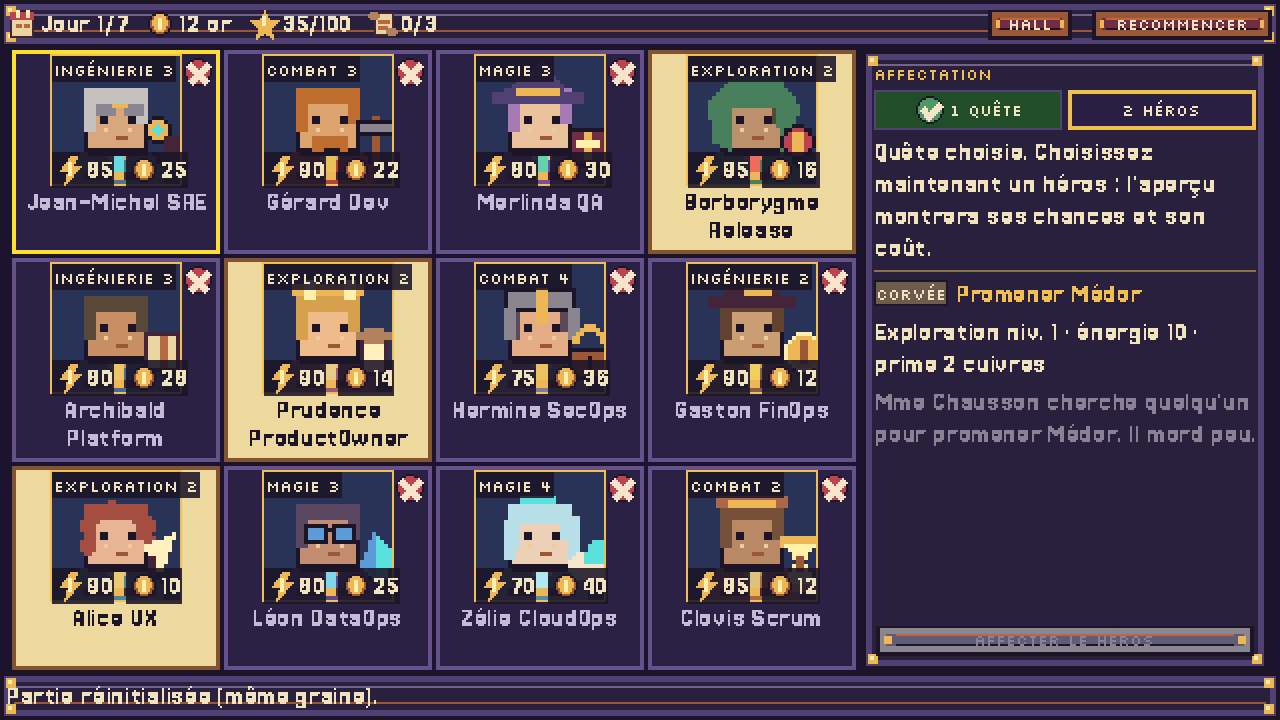
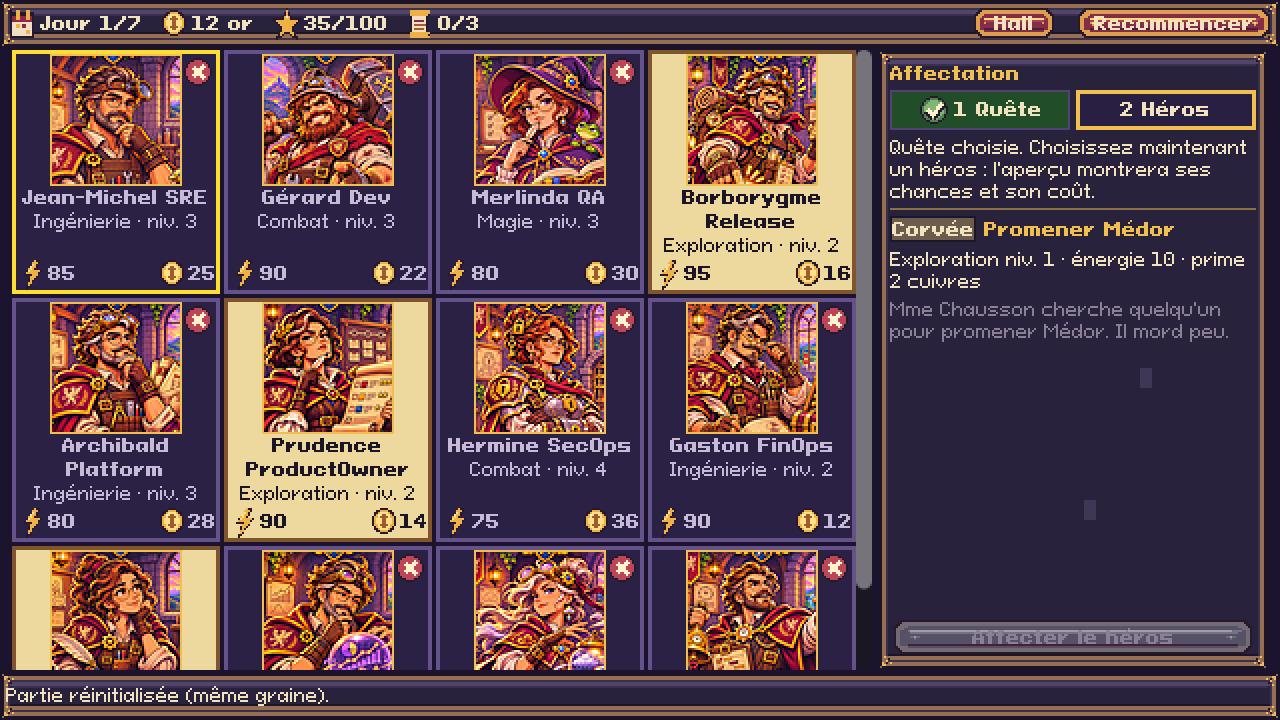
B5.1: recompose les cartes héros (portrait, nom, classe · niveau, énergie/coût)
Portrait dégagé, nom dessous, « Classe · niv. N » puis énergie et coût en bas.
La grille des héros défile verticalement (les 3 rangées dépassent 313 px).
Le contrôle de mise en page tolère le dépassement par le bas en zone défilante.
Nouvelle capture 04c (grille défilée). Aucun changement dans GuildOps.Core.

diff --git a/src/GuildOps.Game/Ui/Cards.cs b/src/GuildOps.Game/Ui/Cards.cs
@@ -34,7 +34,6 @@ public static class Names
 public static class Cards
 {
     public const int HeroCardWidth = 104;
-    public const int HeroCardHeight = 102;
     private const int PortraitBoxSize = 66;
 
     /// <summary>Portrait 64×64 dans son cadre 72×72 (utilisé là où la place le permet : détail de mission).</summary>
@@ -65,15 +64,20 @@ public static class Cards
     }
 
     /// <summary>
-    /// Carte de héros : portrait → nom (2 lignes au besoin, jamais tronqué) → spécialité/niveau ; énergie et coût en pastilles
-    /// sur les angles du portrait (le visage reste dégagé). États : sélectionné ✔, engagé ⚠, incompatible ✖ (icône + grisé).
+    /// Carte de héros : portrait dégagé (aucune pastille dessus) → nom (2 lignes au besoin, jamais tronqué) → « Spécialité · niv. N »
+    /// → énergie à gauche, coût à droite. La grille défile verticalement (3 rangées de cette carte dépassent les 313 px disponibles).
+    /// États : sélectionné ✔, engagé ⚠, incompatible ✖ (icône + grisé).
     /// </summary>
     public static CardButton HeroCard(GameSession session, Hero hero, CardState state, string? reason)
     {
         var d = hero.Definition;
+        const int line = 12, statsH = 16;
+        var innerW = HeroCardWidth - 4;
+        var nameFont = UiKit.Font;
+        var nameLines = nameFont.GetStringSize(d.Name, HorizontalAlignment.Left, -1, UiKit.TextSize).X > innerW ? 2 : 1;
         var card = new CardButton
         {
-            CustomMinimumSize = new Vector2(HeroCardWidth, HeroCardHeight),
+            CustomMinimumSize = new Vector2(HeroCardWidth, 2 + PortraitBoxSize + nameLines * line + line + statsH + 2),
             TooltipText = $"{d.Name} — {d.Role}\n{Names.Skill(d.Skill)} niveau {d.Level}, énergie {hero.Energy}, engagement {session.Money(d.BaseCostCopper)}\nTrait : {d.TraitText}" +
                           (hero.IsFree ? "" : "\nEn mission.") + (reason is null ? "" : $"\n{reason}"),
         };
@@ -89,23 +93,30 @@ public static class Cards
         center.AddChild(portrait);
         box.AddChild(center);
 
-        // Spécialité + niveau (haut-gauche, style titre) ; énergie et coût (bas) : pastilles à icône, hors du visage.
-        // « Ingénierie 3 » dépasserait du portrait (66 px) en Bold 9 px : la spécialité et le niveau sont deux pastilles superposées.
-        portrait.AddChild(Chip(Names.Skill(d.Skill), null, new Vector2(1, 1), title: true));
-        portrait.AddChild(Chip($"Niv. {d.Level}", null, new Vector2(1, 14), title: false));
-        var bottom = new HBoxContainer { Position = new Vector2(1, PortraitBoxSize - 17), Size = new Vector2(PortraitBoxSize - 2, 16), MouseFilter = Control.MouseFilterEnum.Ignore };
-        bottom.AddChild(Chip($"{hero.Energy}", "energy", Vector2.Zero, title: false));
-        bottom.AddChild(new Control { SizeFlagsHorizontal = Control.SizeFlags.ExpandFill, MouseFilter = Control.MouseFilterEnum.Ignore });
-        bottom.AddChild(Chip($"{d.BaseCostCopper}", "coin", Vector2.Zero, title: false));
-        portrait.AddChild(bottom);
-
-        // Nom : deux lignes réservées pour une grille stable ; WordSmart coupe aux espaces, aucune ellipse.
+        // Nom : sous le portrait, centré ; WordSmart coupe aux espaces, aucune ellipse.
         var name = card.Track(UiKit.AsTitle(UiKit.Lbl(d.Name, wrap: true))); // noms de héros : Bold 9 px
         name.HorizontalAlignment = HorizontalAlignment.Center;
         name.VerticalAlignment = VerticalAlignment.Top;
         name.MaxLinesVisible = 2;
-        name.CustomMinimumSize = new Vector2(HeroCardWidth - 8, 2 * UiKit.BodyFont.GetHeight(UiKit.TextSize));
-        box.AddChild(name);
+        name.AddThemeConstantOverride("line_spacing", line - (int)UiKit.BodyFont.GetHeight(UiKit.TextSize));
+        box.AddChild(TightRow(name, nameLines * line, innerW));
+
+        // Spécialité · niveau, sous le nom.
+        var spec = card.Track(UiKit.Lbl($"{Names.Skill(d.Skill)} · niv. {d.Level}"));
+        spec.HorizontalAlignment = HorizontalAlignment.Center;
+        box.AddChild(TightRow(spec, line, innerW));
+
+        box.AddChild(new Control { SizeFlagsVertical = Control.SizeFlags.ExpandFill, MouseFilter = Control.MouseFilterEnum.Ignore });
+
+        // Énergie (gauche) et coût (droite), en bas de la carte.
+        var stats = new HBoxContainer { MouseFilter = Control.MouseFilterEnum.Ignore, Size = new Vector2(innerW, 16) };
+        stats.AddThemeConstantOverride("separation", 0);
+        stats.AddChild(Stat(card, $"{hero.Energy}", "energy"));
+        stats.AddChild(new Control { SizeFlagsHorizontal = Control.SizeFlags.ExpandFill, MouseFilter = Control.MouseFilterEnum.Ignore });
+        stats.AddChild(Stat(card, $"{d.BaseCostCopper}", "coin"));
+        var statsRow = new Control { CustomMinimumSize = new Vector2(innerW, statsH), MouseFilter = Control.MouseFilterEnum.Ignore };
+        statsRow.AddChild(stats);
+        box.AddChild(statsRow);
 
         // Engagé ⚠ > incompatible ✖ (verdict de Core) > choisi ✔ : un héros choisi mais incompatible garde son ✖.
         var marker = !hero.IsFree ? "warning" : reason is not null ? "failure" : state == CardState.Selected ? "success" : null;
@@ -113,19 +124,26 @@ public static class Cards
         return card;
     }
 
-    /// <summary>Pastille posée sur un portrait : icône optionnelle + valeur ; style titre pour les mentions en capitales.</summary>
-    private static Control Chip(string text, string? icon, Vector2 position, bool title)
+    /// <summary>Ligne de texte de hauteur fixe (pas de 12 px).</summary>
+    private static Control TightRow(Label label, int height, int width)
     {
-        var chip = new PanelContainer { Position = position, MouseFilter = Control.MouseFilterEnum.Ignore };
-        chip.AddThemeStyleboxOverride("panel", UiKit.Flat(new Color(UiKit.Ink, 0.88f), null, 0, 1));
+        var row = new Control { CustomMinimumSize = new Vector2(width, height), MouseFilter = Control.MouseFilterEnum.Ignore };
+        label.SetAnchorsPreset(Control.LayoutPreset.FullRect);
+        label.ClipText = true;
+        row.AddChild(label);
+        return row;
+    }
+
+    /// <summary>Valeur de statistique précédée de son icône 16 px.</summary>
+    private static Control Stat(CardButton card, string text, string icon)
+    {
         var row = new HBoxContainer { MouseFilter = Control.MouseFilterEnum.Ignore };
         row.AddThemeConstantOverride("separation", 0);
-        if (icon is not null) row.AddChild(UiKit.Icon(icon));
-        var label = UiKit.AsTitle(UiKit.Lbl(text, UiKit.Cream)); // pastilles : valeurs (stats) et mentions en Bold 9 px
+        row.AddChild(UiKit.Icon(icon));
+        var label = card.Track(UiKit.AsTitle(UiKit.Lbl(text)));
         label.VerticalAlignment = VerticalAlignment.Center;
         row.AddChild(label);
-        chip.AddChild(row);
-        return chip;
+        return row;
     }
 
     /// <summary>

diff --git a/src/GuildOps.Game/AutoPlay.cs b/src/GuildOps.Game/AutoPlay.cs
@@ -150,7 +150,7 @@ public sealed class AutoPlay(GameShell shell)
         if (_done.Add("board-selected")) await Shot("03-board-selected", View.Board);
 
         shell.Show(View.Roster);
-        if (_done.Add("roster")) { await Shot("04-roster-12-heroes", View.Roster); await Scan("Roster"); }
+        if (_done.Add("roster")) { await Shot("04-roster-12-heroes", View.Roster); await Scan("Roster"); await ShotRosterScrolled(); }
 
         // Un héros que Core refuse pour cette offre : aperçu motivé, puis tentative d'affectation refusée sans aucune mutation.
         if (s.Heroes.FirstOrDefault(h => h.Id != heroId && !s.Preview(offerId, h.Id).CanAssign) is { } refused && _done.Add("refused"))
@@ -252,6 +252,17 @@ public sealed class AutoPlay(GameShell shell)
         GD.Print($"{name} {(ok ? "OK" : "FAIL")} — {detail}");
     }
 
+    /// <summary>Capture de la grille des héros défilée en bas (3ᵉ rangée), puis retour en haut pour ne pas fausser les contrôles suivants.</summary>
+    private async Task ShotRosterScrolled()
+    {
+        var scroll = shell.GetNode<Control>("Content/Roster").FindChildren("*", "ScrollContainer", true, false).OfType<ScrollContainer>().FirstOrDefault();
+        if (scroll is null) return;
+        scroll.ScrollVertical = (int)scroll.GetVScrollBar().MaxValue;
+        await Shot("04c-roster-scrolled", View.Roster);
+        scroll.ScrollVertical = 0;
+        await Frame(2);
+    }
+
     /// <summary>Mise en page et glyphes de la vue affichée : cartes dans l'écran, textes non tronqués, glyphes présents dans la police.</summary>
     private async Task Scan(string viewName)
     {
@@ -271,7 +282,10 @@ public sealed class AutoPlay(GameShell shell)
                     cards++;
                     var rect = card.GetGlobalRect();
                     // Une carte dans une zone défilante peut dépasser volontairement ; ici aucune ne doit sortir de l'écran 640×360.
-                    if (!Screen.Encloses(rect)) outside.Add($"{card.TooltipText.Split('\n')[0]} {rect}");
+                    // Dans un ScrollContainer, seule la sortie latérale ou par le haut est une erreur ; le bas est atteint en défilant.
+                    var scrolled = node.GetParent() is ScrollContainer;
+                    var inside = scrolled ? rect.Position.X >= 0 && rect.End.X <= Screen.End.X && rect.Position.Y >= 0 : Screen.Encloses(rect);
+                    if (!inside) outside.Add($"{card.TooltipText.Split('\n')[0]} {rect}");
                 }
                 if (child is Label label && label.IsVisibleInTree() && label.Text.Length > 0)
                 {

diff --git a/src/GuildOps.Game/Scenes/HeroRoster.cs b/src/GuildOps.Game/Scenes/HeroRoster.cs
@@ -14,7 +14,7 @@ public partial class HeroRoster : PanelBase
     {
         var root = new HBoxContainer();
         root.SetAnchorsPreset(LayoutPreset.FullRect);
-        root.OffsetLeft = 6; root.OffsetRight = -6; root.OffsetTop = 1; root.OffsetBottom = -1; // 3 × 102 + 2 × 2 = 310 px
+        root.OffsetLeft = 6; root.OffsetRight = -6; root.OffsetTop = 1; root.OffsetBottom = -1; // 313 px utiles ; la grille défile
         AddChild(root);
 
         var left = new VBoxContainer();
@@ -22,7 +22,10 @@ public partial class HeroRoster : PanelBase
         _grid = new GridContainer { Columns = 4 };
         _grid.AddThemeConstantOverride("h_separation", 2);
         _grid.AddThemeConstantOverride("v_separation", 2);
-        left.AddChild(_grid);
+        // Les cartes recomposées (portrait, nom, classe · niveau, énergie/coût) dépassent la hauteur de l'écran : la grille défile.
+        var scroll = new ScrollContainer { HorizontalScrollMode = ScrollContainer.ScrollMode.Disabled, FollowFocus = true, SizeFlagsVertical = SizeFlags.ExpandFill };
+        scroll.AddChild(_grid);
+        left.AddChild(scroll);
 
         _assignment = GD.Load<PackedScene>("res://Scenes/AssignmentPanel.tscn").Instantiate<AssignmentPanel>();
         _assignment.SizeFlagsHorizontal = SizeFlags.ExpandFill;
